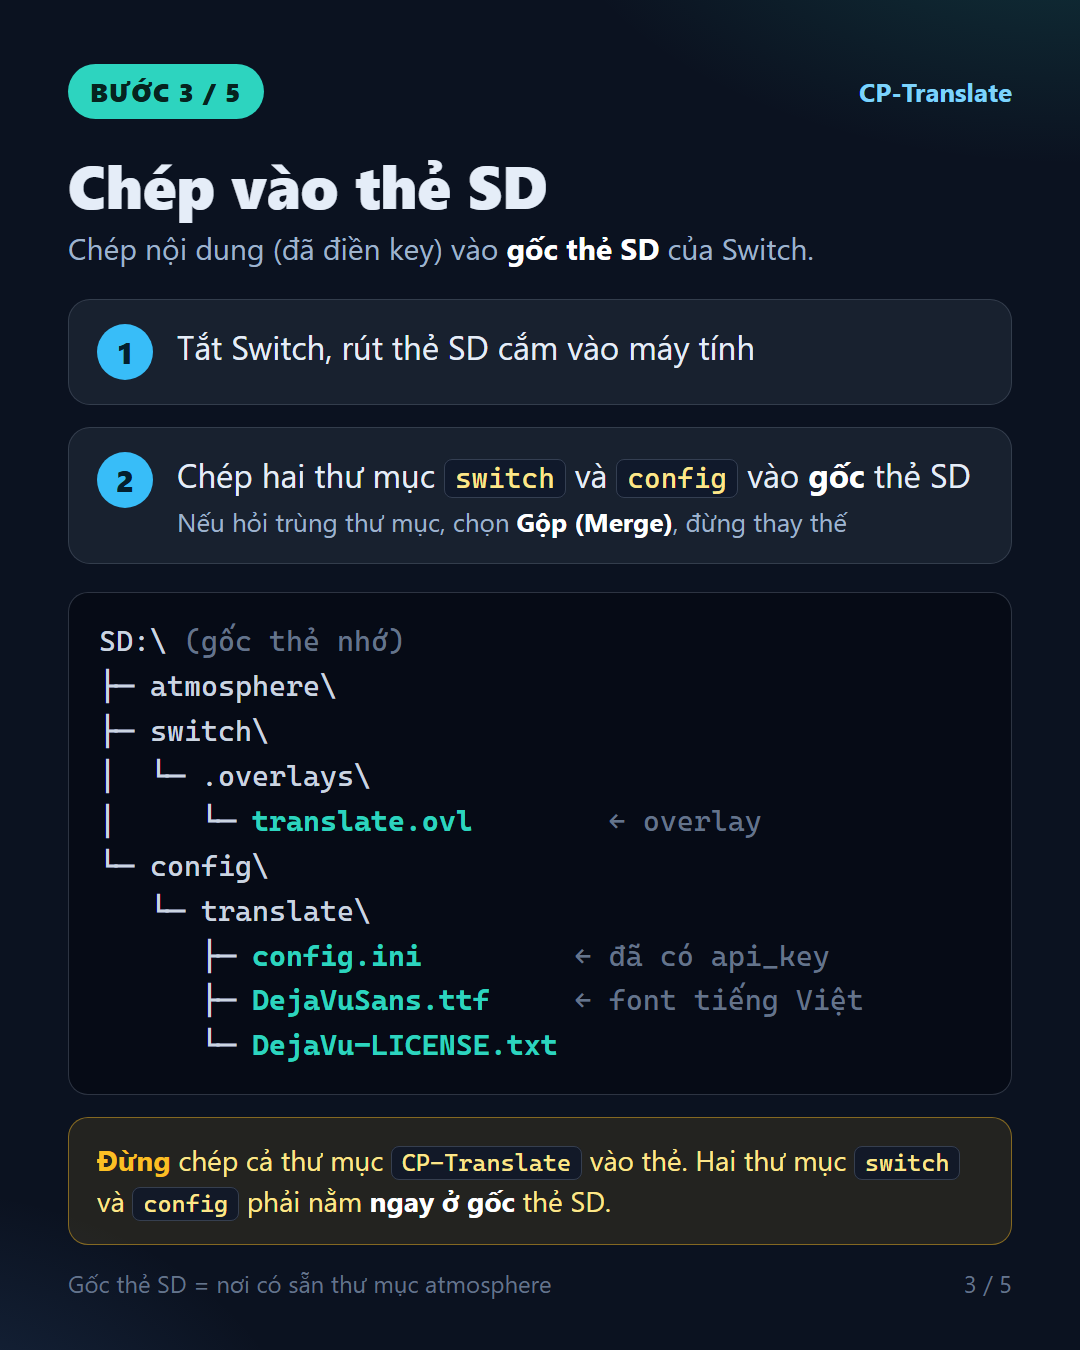
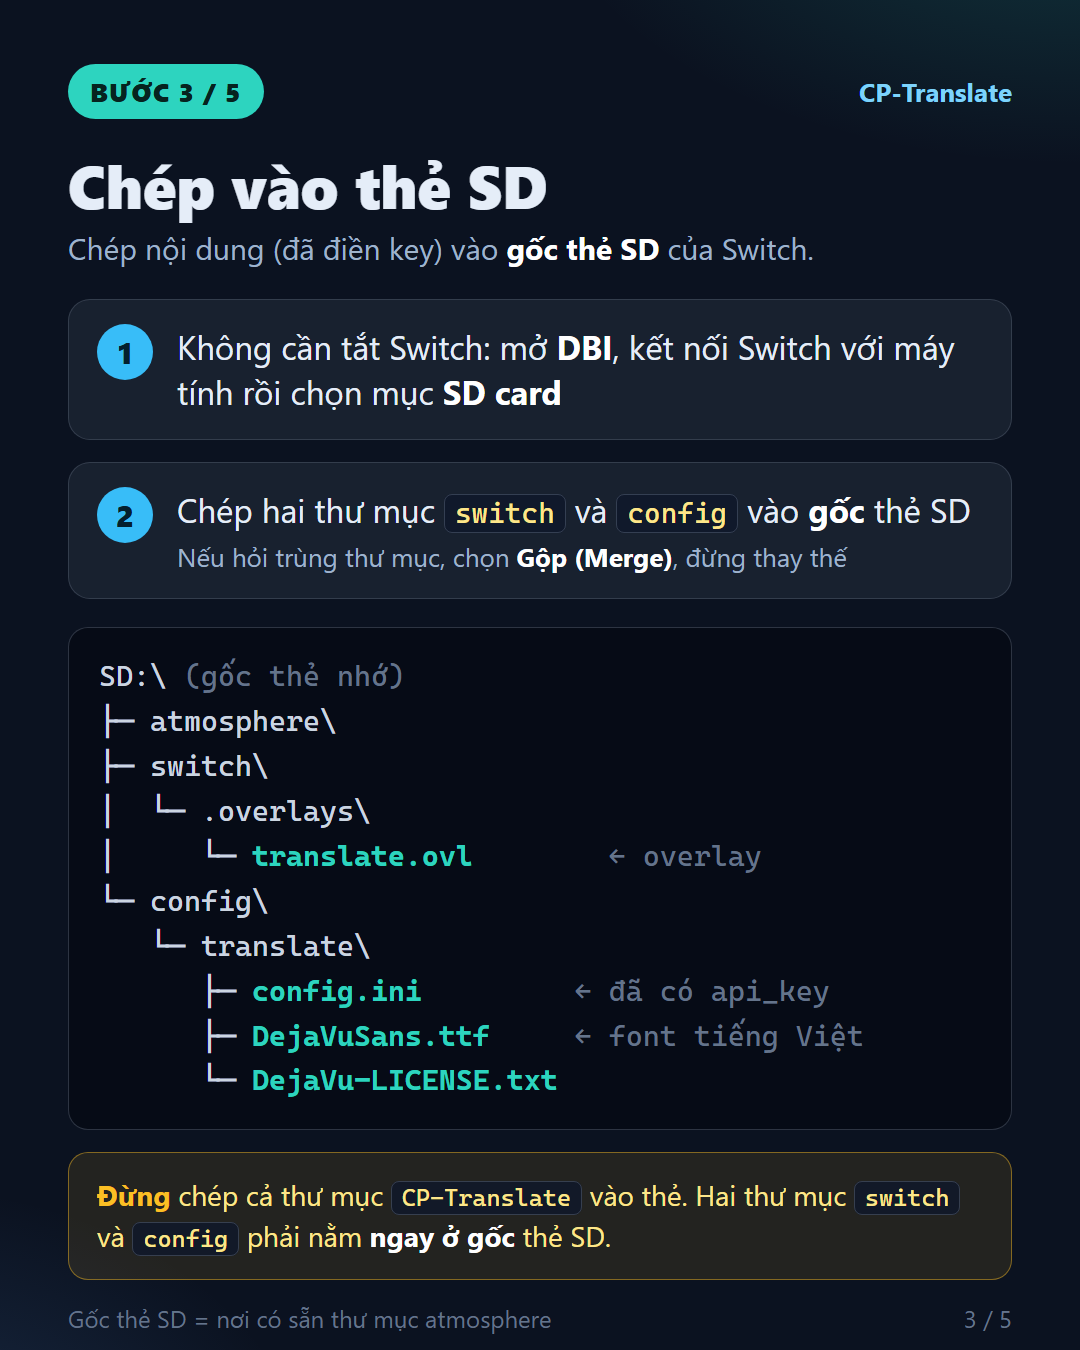
Guide: copy to the SD card through DBI instead of removing the card
Step 3 now connects the Switch to the laptop with DBI and uses the SD card entry; step 4 and README wording follow.

diff --git a/docs/guide/src/step3.html b/docs/guide/src/step3.html
@@ -6,7 +6,7 @@
   <p class="sub">Chép nội dung (đã điền key) vào <b>gốc thẻ SD</b> của Switch.</p>
 
   <div class="steps">
-    <div class="step"><div class="num">1</div><p>Tắt Switch, rút thẻ SD cắm vào máy tính</p></div>
+    <div class="step"><div class="num">1</div><p>Không cần tắt Switch: mở <b>DBI</b>, kết nối Switch với máy tính rồi chọn mục <b>SD card</b></p></div>
     <div class="step"><div class="num">2</div><p>Chép hai thư mục <code>switch</code> và <code>config</code> vào <b>gốc</b> thẻ SD<small>Nếu hỏi trùng thư mục, chọn <b>Gộp (Merge)</b>, đừng thay thế</small></p></div>
   </div>
 

diff --git a/docs/guide/src/step4.html b/docs/guide/src/step4.html
@@ -12,7 +12,7 @@
 <body><div class="card">
   <header><span class="badge">BƯỚC 4 / 5</span><span class="app">CP-Translate</span></header>
   <h1>Vào game và dịch</h1>
-  <p class="sub" style="margin-bottom:20px">Cắm thẻ SD lại, bật Switch (Atmosphère) và <b>bật Wi-Fi</b>.</p>
+  <p class="sub" style="margin-bottom:20px">Ngắt kết nối DBI, dùng Switch (Atmosphère) và <b>bật Wi-Fi</b>.</p>
 
   <div class="steps">
     <div class="step"><div class="num">1</div><p>Vào game, mở Ultrahand:

diff --git a/README.md b/README.md
@@ -124,7 +124,7 @@ model=
 | `base_url` | Chỉ cho `openai-compatible`: URL `https` của API, thường kết thúc bằng `/v1` |
 
 `provider` và `model` chọn được ngay trong overlay (**Cài đặt → Provider / Model**), còn `api_key` thì phải sửa trong file này
-trên máy tính (rút thẻ SD ra) vì overlay không mở được bàn phím hệ thống. Mục **Thông tin** của overlay hiện key đang dùng
+trên máy tính (trước khi chép vào thẻ SD, hoặc chép qua DBI) vì overlay không mở được bàn phím hệ thống. Mục **Thông tin** của overlay hiện key đang dùng
 (che chỉ còn 4 ký tự cuối).
 
 > ⚠ `config.ini` chứa token và API key, **không chia sẻ** file này. Nên dùng key riêng có hạn mức chi tiêu thấp.
